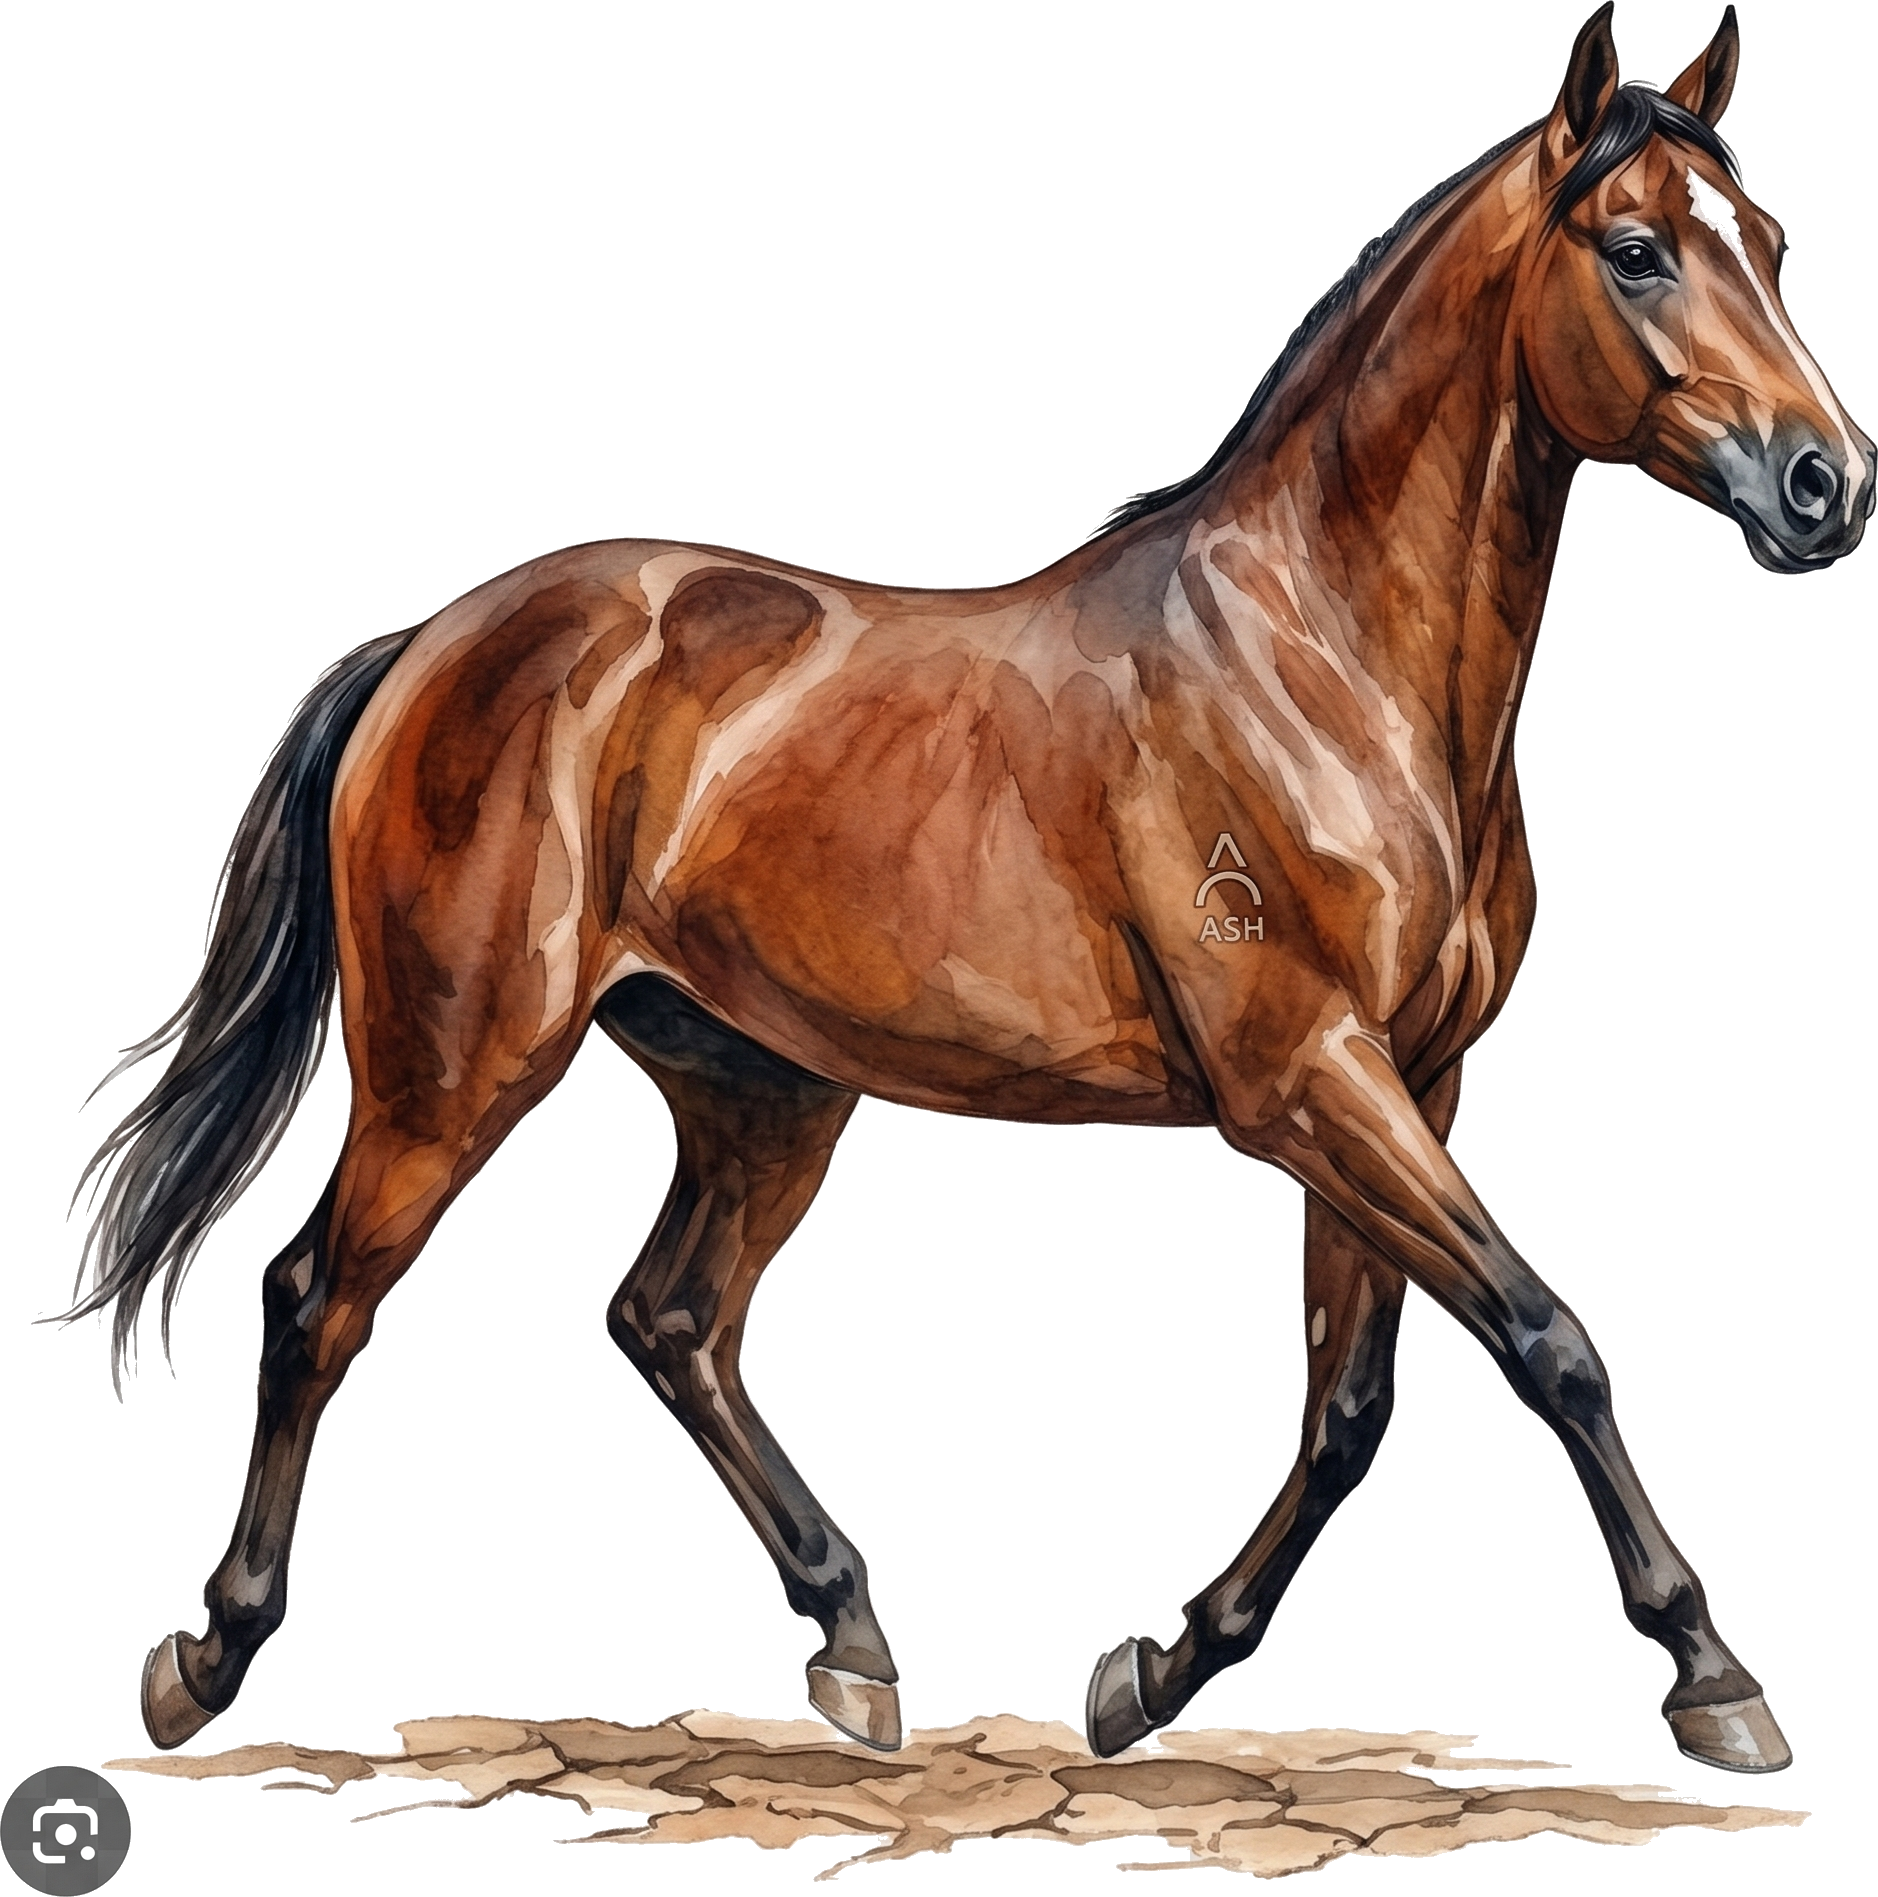
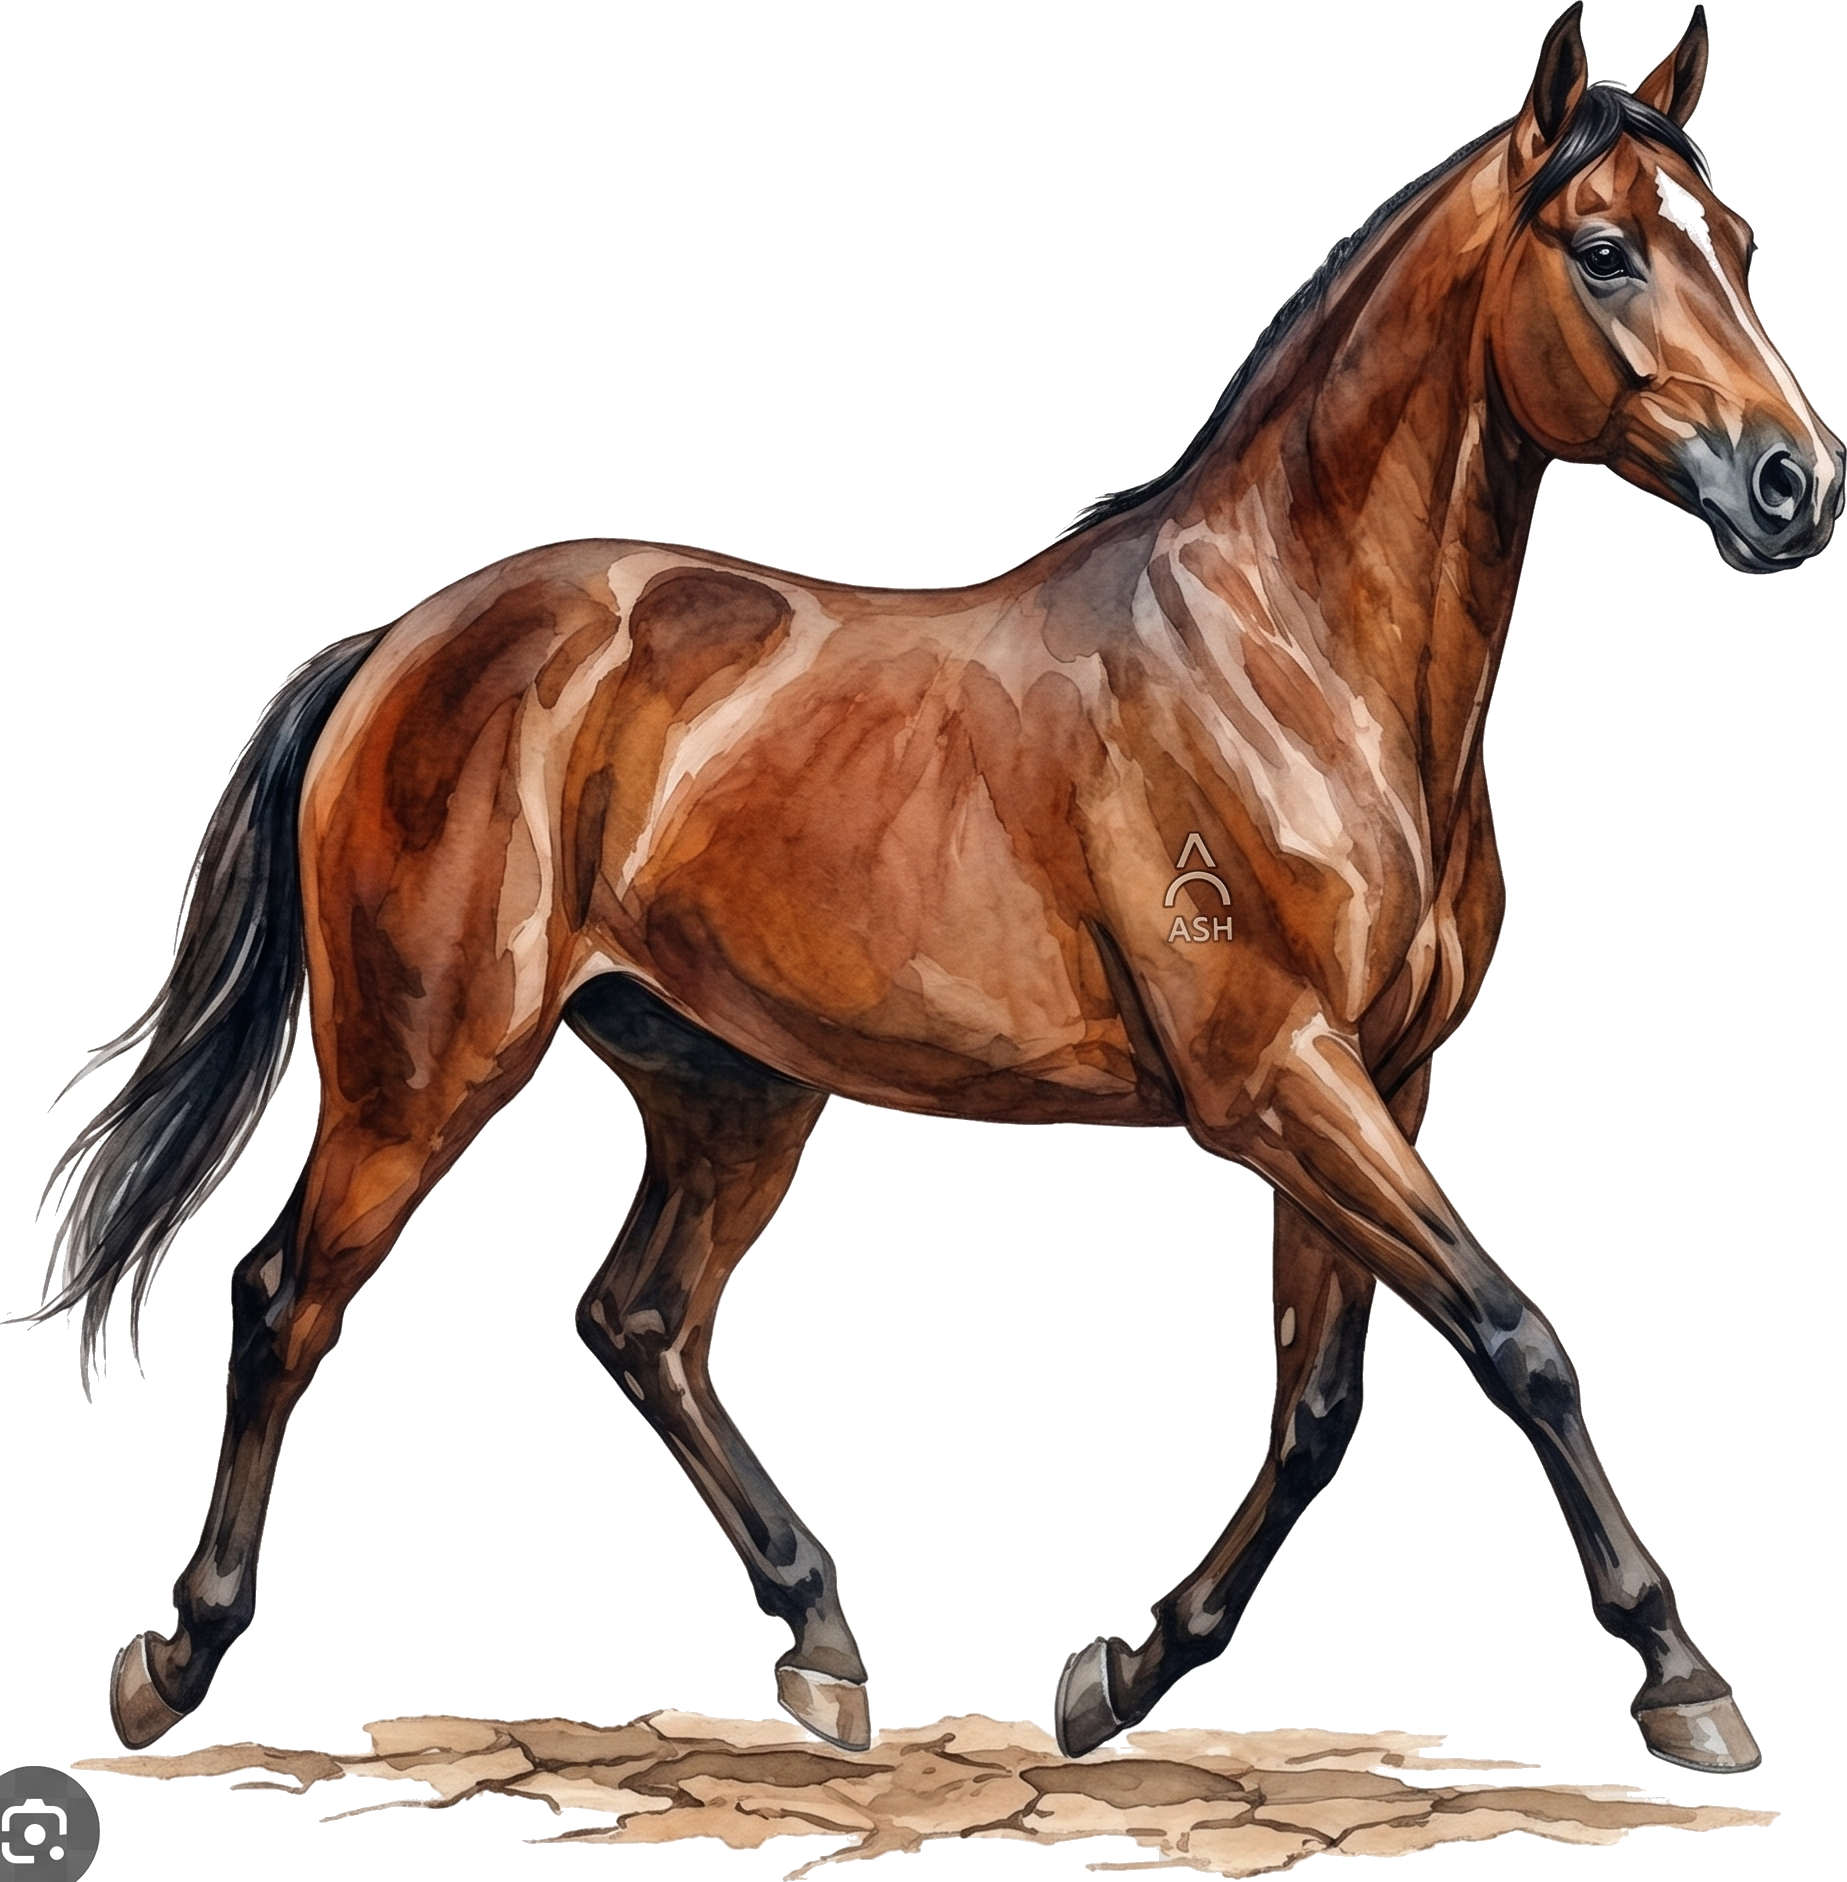
Adjust stall framing and clean horse labels

Changed region(s): [[0.0, 0.0, 1.0, 1.0]]

diff --git a/frontend/styles.css b/frontend/styles.css
@@ -7035,23 +7035,23 @@ input[type="date"] {
 
 .ss-stall-inner {
   position: absolute;
-  top: 2px;
+  top: 0;
   left: 0;
   right: 0;
-  height: 84px;
+  height: 72px;
   overflow: hidden;
   display: flex;
   justify-content: center;
-  align-items: flex-end;
+  align-items: flex-start;
   z-index: 1;
 }
 
 .ss-stall-bars {
   position: absolute;
-  top: 58px;
+  top: 52px;
   left: 0;
   right: 0;
-  height: 24px;
+  height: 28px;
   z-index: 2;
   border-top: 3px solid var(--iron);
   background: repeating-linear-gradient(90deg, transparent 0 9px, var(--iron) 9px 12px);
@@ -7107,10 +7107,10 @@ input[type="date"] {
 }
 
 .ss-horse--stall {
-  width: 148px;
-  height: 148px;
+  width: 164px;
+  height: 186px;
   object-fit: contain;
-  object-position: center bottom;
+  object-position: center top;
   display: block;
   cursor: pointer;
   filter: drop-shadow(0 10px 10px rgba(20, 30, 18, 0.14));
